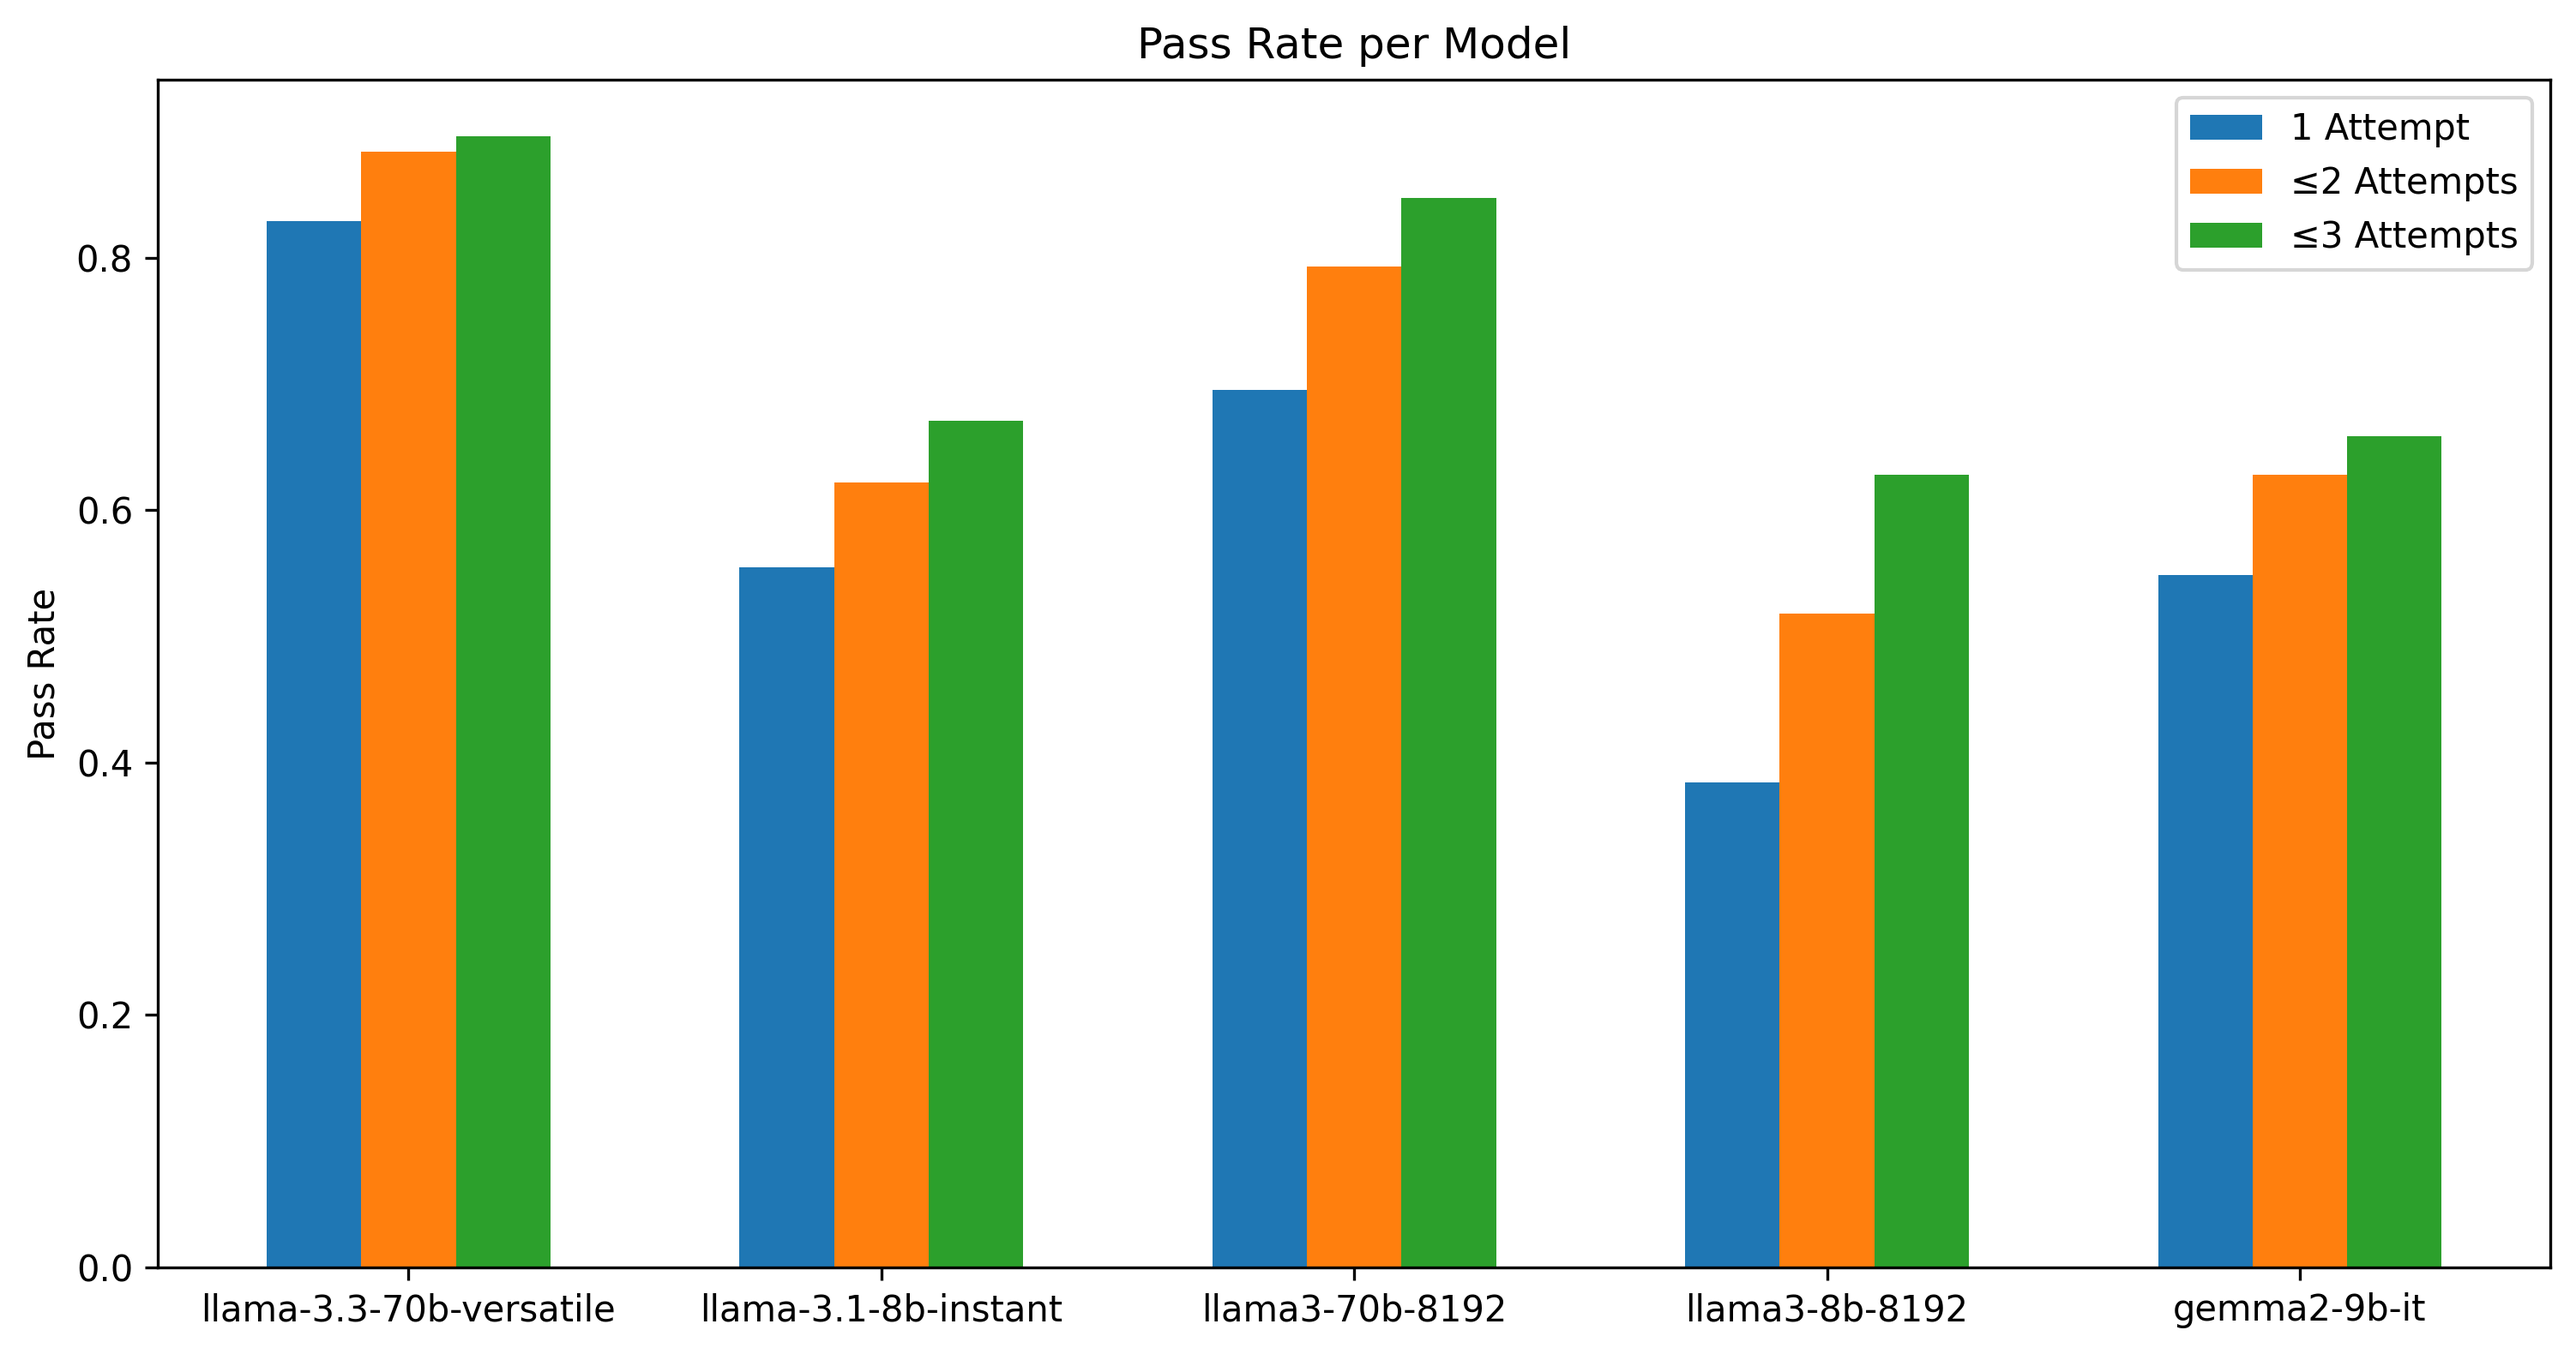
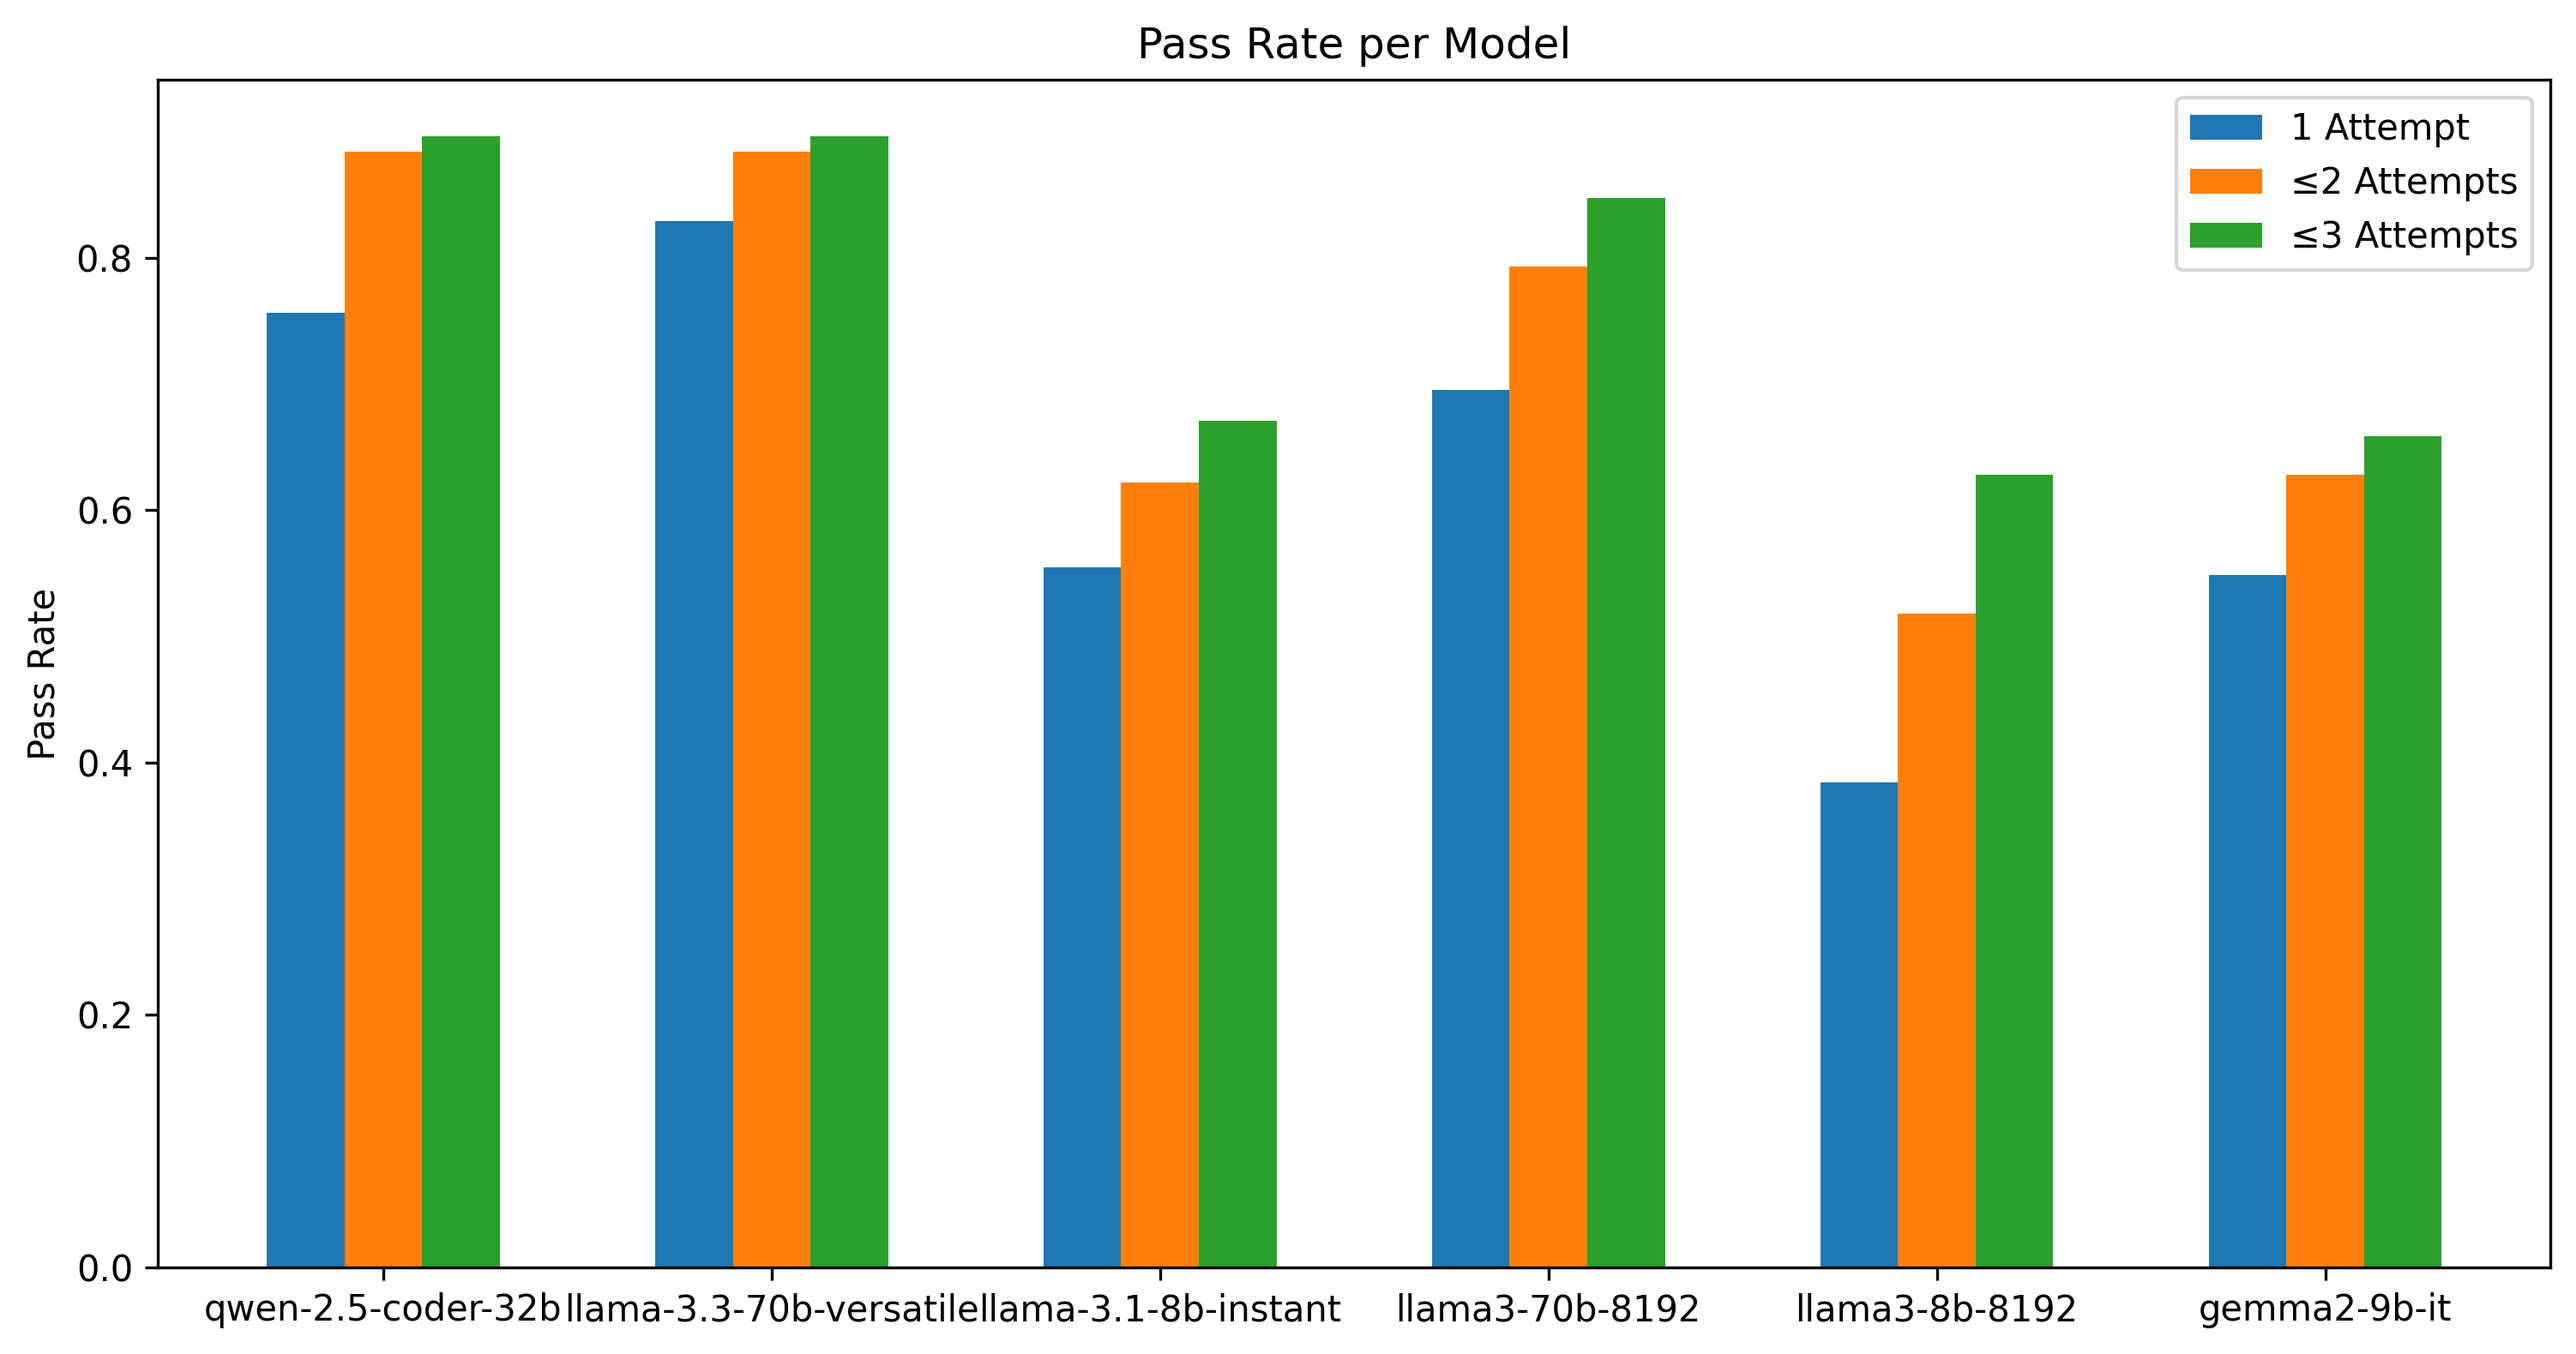
feat: add qwen 32b coder human eval assessment

diff --git a/feedback-llm-samples/plot_stats.py b/feedback-llm-samples/plot_stats.py
@@ -13,7 +13,7 @@ def plot_stats(json_file):
     x = np.arange(len(models))
     width = 0.2  # Width of each bar
     
-    fig, ax = plt.subplots()
+    fig, ax = plt.subplots(figsize=(12, 6))  # Set larger figure size
     
     for i, category in enumerate(categories):
         values = [data[model][category] for model in models]
@@ -29,4 +29,4 @@ def plot_stats(json_file):
     plt.show()
 
 # Example usage
-plot = plot_stats("model_stats.json")
+plot_stats("model_stats.json")

diff --git a/feedback-llm-samples/run-stats.py b/feedback-llm-samples/run-stats.py
@@ -35,7 +35,8 @@ def process_models(models):
         json.dump(results, out_file, indent=4)
 
 # Example usage
-models = [ "llama-3.3-70b-versatile",
+models = [ "qwen-2.5-coder-32b",
+           "llama-3.3-70b-versatile",
            "llama-3.1-8b-instant",
            "llama3-70b-8192",
            "llama3-8b-8192",
